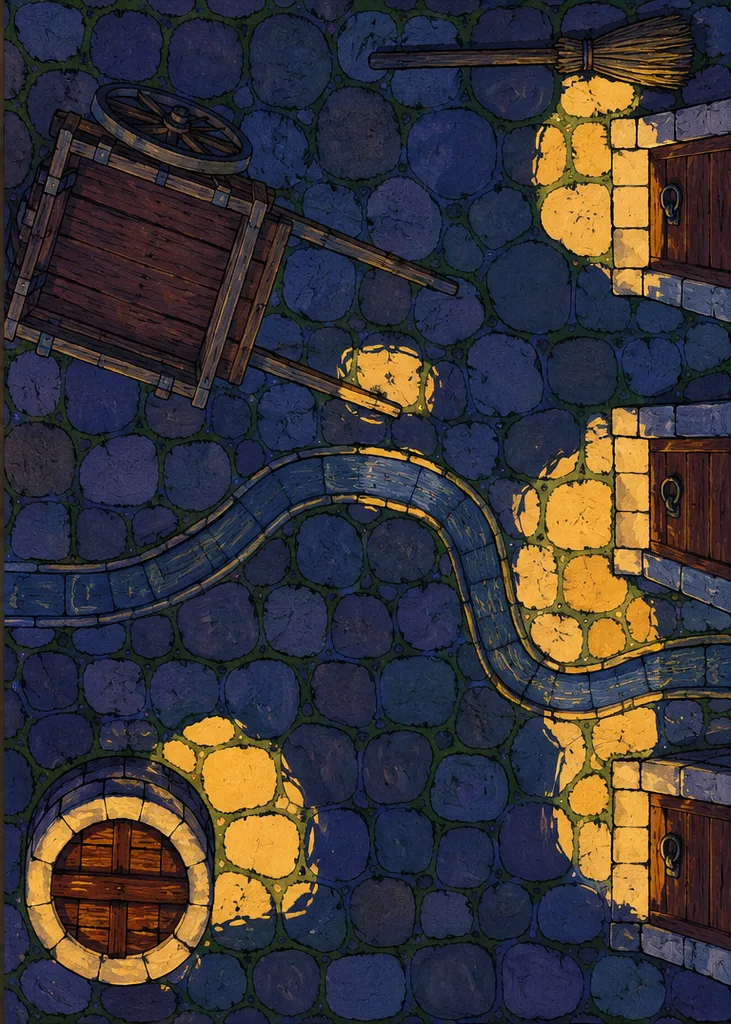
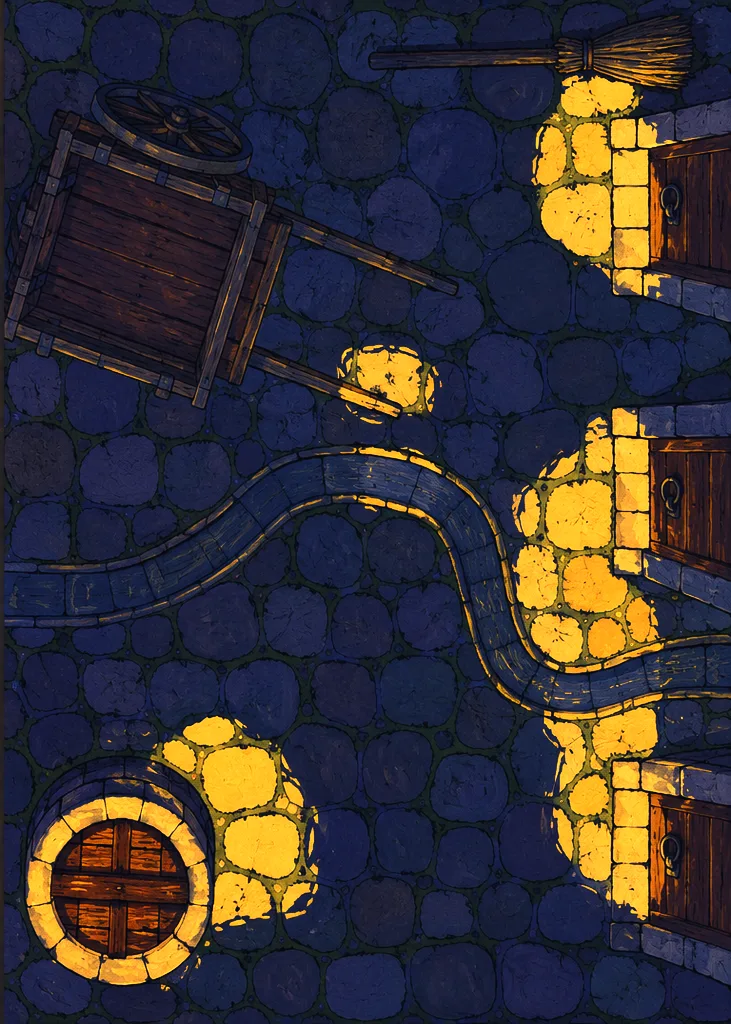
feat(labs/storybook): stage the courtyard dissolve payoff — night grade, gold-flood base, flood-key fix
Three moves, one payoff (orchestrator's staging order):
1. prepare-art flood-key now exempts FULL_BLEED ids (yard dunes/gold/tab).
   The dusk painting's night-uniform border tripped the background vote and
   the flood punched the whole mortar network transparent — the cream page
   glared through it as a white wireframe, which is most of why the flip
   read as noise instead of night. The tab also regains its exact 512x394.
2. ch1-yard-gold regraded: low-sat highlights kneed down toward stone value,
   cool passages pulled toward deep night #1c2340, saturated golds blazed
   x1.3 — the A->B value swing roughly doubles.
3. The dissolve base band is now flip-staged in the layer: violet at rest,
   flooding lamp-gold at mid-flip (light pours out of the turning floor),
   settling to deep night at full draw so the vacated slat-pitch band
   belongs to the dusk picture. baseMaterial only — it is not hover-managed,
   so the per-frame write cannot fight applyHandleGlow's cached base.

diff --git a/components/labs/storybook/book/popup-dissolve-layer.tsx b/components/labs/storybook/book/popup-dissolve-layer.tsx
@@ -104,6 +104,13 @@ const TAP_ARRIVE_EPS = 1e-3
  *  night floor and the gaps between tilted slats mid-flip read as dark sand. */
 const SAND_COLOR = '#5c4160'
 const SAND_SHADE = '#38294a'
+// E4 PAINTED staging (ch1-yard): the base band's flip-driven grade — see the
+// useFrame note. Gold matches the palette's lamp gold; night matches the dusk
+// painting's deep passages so the vacated pitch band at tau=PI reads as part
+// of the picture, not as a violet foreign strip.
+const STAGE_SAND = new THREE.Color(SAND_COLOR)
+const STAGE_NIGHT = new THREE.Color('#232043')
+const STAGE_GOLD = new THREE.Color('#f6c66a')
 
 const rad = (d: number): number => (d * Math.PI) / 180
 const clamp = (x: number, lo: number, hi: number): number => Math.min(hi, Math.max(lo, x))
@@ -527,6 +534,18 @@ export function DissolvePopupLayer({
       Math.PI,
       Math.max(0, dissolveShownTau(tauHeld, beta) + nudgeOffset(layer.id, tauHeld, 0, Math.PI, 2 * NUDGE_SPAN_ANGLE))
     )
+    // E4 PAINTED staging: this flip is the chapter's hero payoff and the floor
+    // is hard-foreshortened at the reading camera, so the MOMENT carries the
+    // drama — mid-flip, while the slats stand, the base band between them
+    // floods lamp-gold (light pouring out of the turn); at full draw it
+    // settles to deep night so the vacated band belongs to the dusk painting.
+    // baseMaterial is not hover-managed, so a per-frame write is safe here
+    // (applyHandleGlow's cached-base contract only covers the slat/tab mats).
+    const stageGlow = Math.sin(tau)
+    baseMaterial.color
+      .copy(STAGE_SAND)
+      .lerp(STAGE_NIGHT, tau / Math.PI)
+      .lerp(STAGE_GOLD, stageGlow * 0.85)
     const pose = solveDissolvePose(layer, tau, thetaL, thetaR)
     writeQuad(baseGeom, pose.base)
     pose.slats.forEach((quad, k) => {
